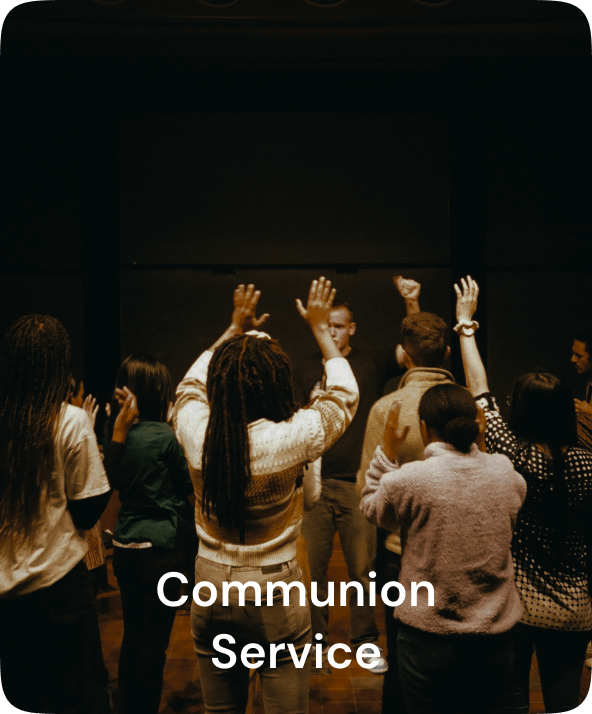
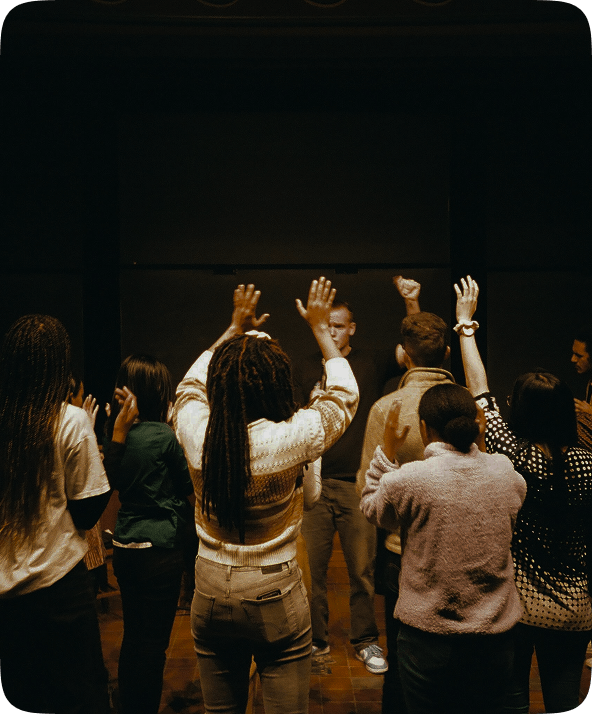
feat: Add new changes

diff --git a/src/app/page.tsx b/src/app/page.tsx
@@ -1,17 +1,17 @@
 import Link from "next/link"
 import Image from "next/image"
 import { Merriweather, DM_Sans, Great_Vibes } from 'next/font/google';
+import { Button } from "@/components/ui/button";
+import { Card, CardContent, CardHeader } from '@/components/ui/card'
 
 const merriweather = Merriweather({
   subsets: ['latin'],
-  weight: ['400', '700'],
-  variable: '--font-merriweather',
+  weight: ['700'],
 });
 
 const dmSans = DM_Sans({
   subsets: ['latin'],
-  weight: ['400', '700'],
-  variable: '--font-dm-sans',
+  weight: ['500', '600'],
 });
 
 const greatVibes = Great_Vibes({
@@ -28,45 +28,44 @@ export default function HomePage() {
         <div
           className="absolute inset-0 bg-cover bg-center"
           style={{
-            backgroundImage: `url('/placeholder.svg?height=800&width=1200')`,
+            backgroundImage: `url('/images/hero-desktop.png')`,
           }}
         ></div>
         <div className="relative z-20 max-w-4xl mx-auto px-4">
-          <p className={`text-lg md:text-xl mb-4 italic ${greatVibes.className}`}>Welcome to</p>
-          <h1 className="text-4xl md:text-6xl font-bold mb-6">Elyon Life Ministry</h1>
-          <p className="text-lg md:text-xl max-w-2xl mx-auto">
+          <p className={`text-4xl md:text-[64px] mb-6 ${greatVibes.className}`}>Welcome to</p>
+          <h1 className={`text-4xl md:text-6xl font-bold mb-6 ${merriweather.className}`}>Elyon Life Ministry</h1>
+          <p className={`text-lg md:text-xl max-w-2xl mx-auto mb-8 ${dmSans.className}`}>
             A place to worship, grow, and experience God's transforming love in community.
           </p>
         </div>
       </section>
 
       {/* Sharing God's Love Section */}
-      <section className="py-16 md:py-24">
-        <div className="max-w-7xl mx-auto px-4 sm:px-6 lg:px-8">
-          <div className="grid grid-cols-1 md:grid-cols-2 gap-12 items-center">
-            <div className="order-2 md:order-1">
-              <div className="bg-black rounded-lg overflow-hidden">
+      <section className="pt-16 md:pt-28">
+        <div className="max-w-6xl mx-auto px-4 sm:px-6 lg:px-8">
+          <div className="flex flex-col md:flex-row gap-12 items-center">
+            <div className="order-2 md:order-1 flex-1">
+              <div className="relative rounded-lg">
                 <Image
                   src="/images/mission.png"
                   alt="Worship service"
                   width={400}
                   height={200}
-                  className="w-full h-full object-cover"
+                  className="w-full h-full object-cover max-w-[475px] max-h-[480px]"
                 />
               </div>
             </div>
-            <div className="order-1 md:order-2 space-y-6">
-              <div className="text-[#CFA83C] text-sm font-semibold uppercase tracking-wide">Our Mission</div>
-              <h2 className="text-3xl md:text-4xl font-bold text-[#1A1A1A]">Sharing God's Love and Changing Lives</h2>
-              <p className="text-[#1A1A1A] text-base md:text-lg leading-relaxed">
+            <div className="order-1 md:order-2 space-y-6 flex-1">
+              <div className={`text-[#3C4A5A] text-xs md:text-[16px] font-medium uppercase tracking-wide ${dmSans.className}`}>Our Mission</div>
+              <h2 className={`text-2xl md:text-[44px] font-bold text-[#1A1A1A] ${merriweather.className}`}>Sharing God's Love and Changing Lives</h2>
+              <p className={`text-[#1A1A1A] text-sm md:text-xl leading-relaxed ${dmSans.className}`}>
                 Since 2017, God has been the author of our journey as we seek to be ready for His Kingdom. We believe in
                 the power of community, worship, and spiritual growth to transform lives and bring hope to our world.
               </p>
-              <Link
-                href="/about"
-                className="inline-block bg-[#B33A3A] text-white px-8 py-3 rounded-lg hover:bg-[#B33A3A]/90 transition-colors font-semibold"
-              >
-                Read More
+              <Link href="/about">
+                <Button className={`bg-[#C83737] text-white px-6 py-6 rounded-full font-medium text-sm md:text-lg cursor-pointer ${dmSans.className} hover:bg-[#C83737]/90 transition-colors`}>
+                  Read More
+                </Button>
               </Link>
             </div>
           </div>
@@ -74,62 +73,64 @@ export default function HomePage() {
       </section>
 
       {/* Quote Section */}
-      <section className="py-16 bg-[#1A1A1A] text-white text-center">
+      <section className="pt-16 md:pt-28 text-center">
         <div className="max-w-4xl mx-auto px-4">
-          <blockquote className="text-2xl md:text-3xl font-light italic mb-8">
+          <blockquote className={`text-2xl md:text-3xl font-semibold mb-8 ${dmSans.className}`}>
             "And they that shall be of thee shall build the old waste places: thou shalt raise up the foundations of
             many generations; and thou shalt be called, The repairer of the breach, The restorer of paths to dwell in."
           </blockquote>
-          <cite className="text-[#CFA83C] text-lg">- Isaiah 58:12 (KJV)</cite>
+          <cite className={`text-[#C83737] text-sm md:text-xl font-semibold ${dmSans.className}`}>- Isaiah 58:12 (KJV)</cite>
         </div>
       </section>
 
       {/* Join Us Section */}
-      <section className="py-16 md:py-24">
+      <section className="md:mt-20 py-10 md:py-20 max-w-[1120px] mx-auto bg-[#FFFFFF]">
         <div className="max-w-7xl mx-auto px-4 sm:px-6 lg:px-8 text-center">
-          <h2 className="text-3xl md:text-4xl font-bold text-[#1A1A1A] mb-16">
+          <div className={`text-[#3C4A5A] text-xs md:text-base font-medium uppercase tracking-wide mb-5 md:mb-10 ${dmSans.className}`}>Fellowship with us</div>
+          <h2 className={`text-2xl md:text-[44px] mx-auto max-w-[571px] font-bold text-[#1A1A1A] mb-10 md:mb-20 ${merriweather.className}`}>
             Join Us for Worship, Fellowship, and Growth
           </h2>
 
-          <div className="grid grid-cols-1 md:grid-cols-3 gap-8">
-            <div className="bg-white rounded-lg overflow-hidden shadow-lg">
-              <div className="h-48 bg-gradient-to-br from-orange-400 to-red-500"></div>
-              <div className="p-6">
-                <h3 className="font-bold text-lg mb-2 text-white bg-[#1A1A1A] py-2 px-4 rounded">
-                  Sunday Worship Service
-                </h3>
+          <div className="grid grid-cols-1 md:grid-cols-3 gap-8 max-w-[936px] mx-auto">
+            {/* Card 1: Sunday Worship Service */}
+            <div className="relative group">
+              <Image
+                src="/images/worship.png"
+                alt="Sunday Worship Service"
+                width={400}
+                height={300}
+                className="w-full max-w-[296px] max-h-[240px] md:max-h-[357px] object-cover"
+              />
+              <div className="absolute bottom-0 w-full py-4 flex justify-center">
+                <span className="text-white text-lg font-semibold">Sunday Worship Service</span>
               </div>
             </div>
 
-            <div className="bg-white rounded-lg overflow-hidden shadow-lg">
-              <div className="h-48 bg-black">
-                <Image
-                  src="/placeholder.svg?height=200&width=300"
-                  alt="Teaching and discipleship"
-                  width={300}
-                  height={200}
-                  className="w-full h-full object-cover"
-                />
-              </div>
-              <div className="p-6">
-                <h3 className="font-bold text-lg mb-2 text-white bg-[#1A1A1A] py-2 px-4 rounded">
-                  Teaching and Discipleship Training
-                </h3>
+            {/* Card 2: Healing and Deliverance Service */}
+            <div className="relative overflow-hidden shadow-lg group">
+              <Image
+                src="/images/healing.png"
+                alt="Healing and Deliverance Service"
+                width={400}
+                height={300}
+                className="w-full max-w-[296px] max-h-[240px] md:max-h-[357px] object-cover"
+              />
+              <div className="absolute bottom-0 w-full py-4 flex justify-center">
+                <span className="text-white text-lg font-semibold">Healing and Deliverance Service</span>
               </div>
             </div>
 
-            <div className="bg-white rounded-lg overflow-hidden shadow-lg">
-              <div className="h-48 bg-black">
-                <Image
-                  src="/placeholder.svg?height=200&width=300"
-                  alt="Outreach"
-                  width={300}
-                  height={200}
-                  className="w-full h-full object-cover"
-                />
-              </div>
-              <div className="p-6">
-                <h3 className="font-bold text-lg mb-2 text-white bg-[#1A1A1A] py-2 px-4 rounded">Outreach</h3>
+            {/* div 3: Communion Service */}
+            <div className="relative overflow-hidden shadow-lg group">
+              <Image
+                src="/images/communion.png"
+                alt="Communion Service"
+                width={400}
+                height={300}
+               className="w-full max-w-[296px] max-h-[240px] md:max-h-[357px] object-cover"
+              />
+              <div className="absolute bottom-0 w-full py-4 flex justify-center">
+                <span className="text-white text-lg font-semibold">Communion Service</span>
               </div>
             </div>
           </div>

diff --git a/src/components/ui/button.tsx b/src/components/ui/button.tsx
@@ -1,0 +1,59 @@
+import * as React from "react"
+import { Slot } from "@radix-ui/react-slot"
+import { cva, type VariantProps } from "class-variance-authority"
+
+import { cn } from "@/lib/utils"
+
+const buttonVariants = cva(
+  "inline-flex items-center justify-center gap-2 whitespace-nowrap rounded-md text-sm font-medium transition-all disabled:pointer-events-none disabled:opacity-50 [&_svg]:pointer-events-none [&_svg:not([class*='size-'])]:size-4 shrink-0 [&_svg]:shrink-0 outline-none focus-visible:border-ring focus-visible:ring-ring/50 focus-visible:ring-[3px] aria-invalid:ring-destructive/20 dark:aria-invalid:ring-destructive/40 aria-invalid:border-destructive",
+  {
+    variants: {
+      variant: {
+        default:
+          "bg-primary text-primary-foreground shadow-xs hover:bg-primary/90",
+        destructive:
+          "bg-destructive text-white shadow-xs hover:bg-destructive/90 focus-visible:ring-destructive/20 dark:focus-visible:ring-destructive/40 dark:bg-destructive/60",
+        outline:
+          "border bg-background shadow-xs hover:bg-accent hover:text-accent-foreground dark:bg-input/30 dark:border-input dark:hover:bg-input/50",
+        secondary:
+          "bg-secondary text-secondary-foreground shadow-xs hover:bg-secondary/80",
+        ghost:
+          "hover:bg-accent hover:text-accent-foreground dark:hover:bg-accent/50",
+        link: "text-primary underline-offset-4 hover:underline",
+      },
+      size: {
+        default: "h-9 px-4 py-2 has-[>svg]:px-3",
+        sm: "h-8 rounded-md gap-1.5 px-3 has-[>svg]:px-2.5",
+        lg: "h-10 rounded-md px-6 has-[>svg]:px-4",
+        icon: "size-9",
+      },
+    },
+    defaultVariants: {
+      variant: "default",
+      size: "default",
+    },
+  }
+)
+
+function Button({
+  className,
+  variant,
+  size,
+  asChild = false,
+  ...props
+}: React.ComponentProps<"button"> &
+  VariantProps<typeof buttonVariants> & {
+    asChild?: boolean
+  }) {
+  const Comp = asChild ? Slot : "button"
+
+  return (
+    <Comp
+      data-slot="button"
+      className={cn(buttonVariants({ variant, size, className }))}
+      {...props}
+    />
+  )
+}
+
+export { Button, buttonVariants }

diff --git a/src/components/ui/card.tsx b/src/components/ui/card.tsx
@@ -1,0 +1,92 @@
+import * as React from "react"
+
+import { cn } from "@/lib/utils"
+
+function Card({ className, ...props }: React.ComponentProps<"div">) {
+  return (
+    <div
+      data-slot="card"
+      className={cn(
+        "bg-card text-card-foreground flex flex-col gap-6 rounded-xl border py-6 shadow-sm",
+        className
+      )}
+      {...props}
+    />
+  )
+}
+
+function CardHeader({ className, ...props }: React.ComponentProps<"div">) {
+  return (
+    <div
+      data-slot="card-header"
+      className={cn(
+        "@container/card-header grid auto-rows-min grid-rows-[auto_auto] items-start gap-1.5 px-6 has-data-[slot=card-action]:grid-cols-[1fr_auto] [.border-b]:pb-6",
+        className
+      )}
+      {...props}
+    />
+  )
+}
+
+function CardTitle({ className, ...props }: React.ComponentProps<"div">) {
+  return (
+    <div
+      data-slot="card-title"
+      className={cn("leading-none font-semibold", className)}
+      {...props}
+    />
+  )
+}
+
+function CardDescription({ className, ...props }: React.ComponentProps<"div">) {
+  return (
+    <div
+      data-slot="card-description"
+      className={cn("text-muted-foreground text-sm", className)}
+      {...props}
+    />
+  )
+}
+
+function CardAction({ className, ...props }: React.ComponentProps<"div">) {
+  return (
+    <div
+      data-slot="card-action"
+      className={cn(
+        "col-start-2 row-span-2 row-start-1 self-start justify-self-end",
+        className
+      )}
+      {...props}
+    />
+  )
+}
+
+function CardContent({ className, ...props }: React.ComponentProps<"div">) {
+  return (
+    <div
+      data-slot="card-content"
+      className={cn("px-6", className)}
+      {...props}
+    />
+  )
+}
+
+function CardFooter({ className, ...props }: React.ComponentProps<"div">) {
+  return (
+    <div
+      data-slot="card-footer"
+      className={cn("flex items-center px-6 [.border-t]:pt-6", className)}
+      {...props}
+    />
+  )
+}
+
+export {
+  Card,
+  CardHeader,
+  CardFooter,
+  CardTitle,
+  CardAction,
+  CardDescription,
+  CardContent,
+}

diff --git a/src/app/layout.tsx b/src/app/layout.tsx
@@ -1,7 +1,7 @@
 import type { Metadata } from "next";
 import "./globals.css";
-import Navbar from "./components/Navbar";
-import Footer from "./components/Footer";
+import Navbar from "../components/Navbar";
+import Footer from "../components/Footer";
 
 export const metadata: Metadata = {
   title: "Elyon Ministry",
